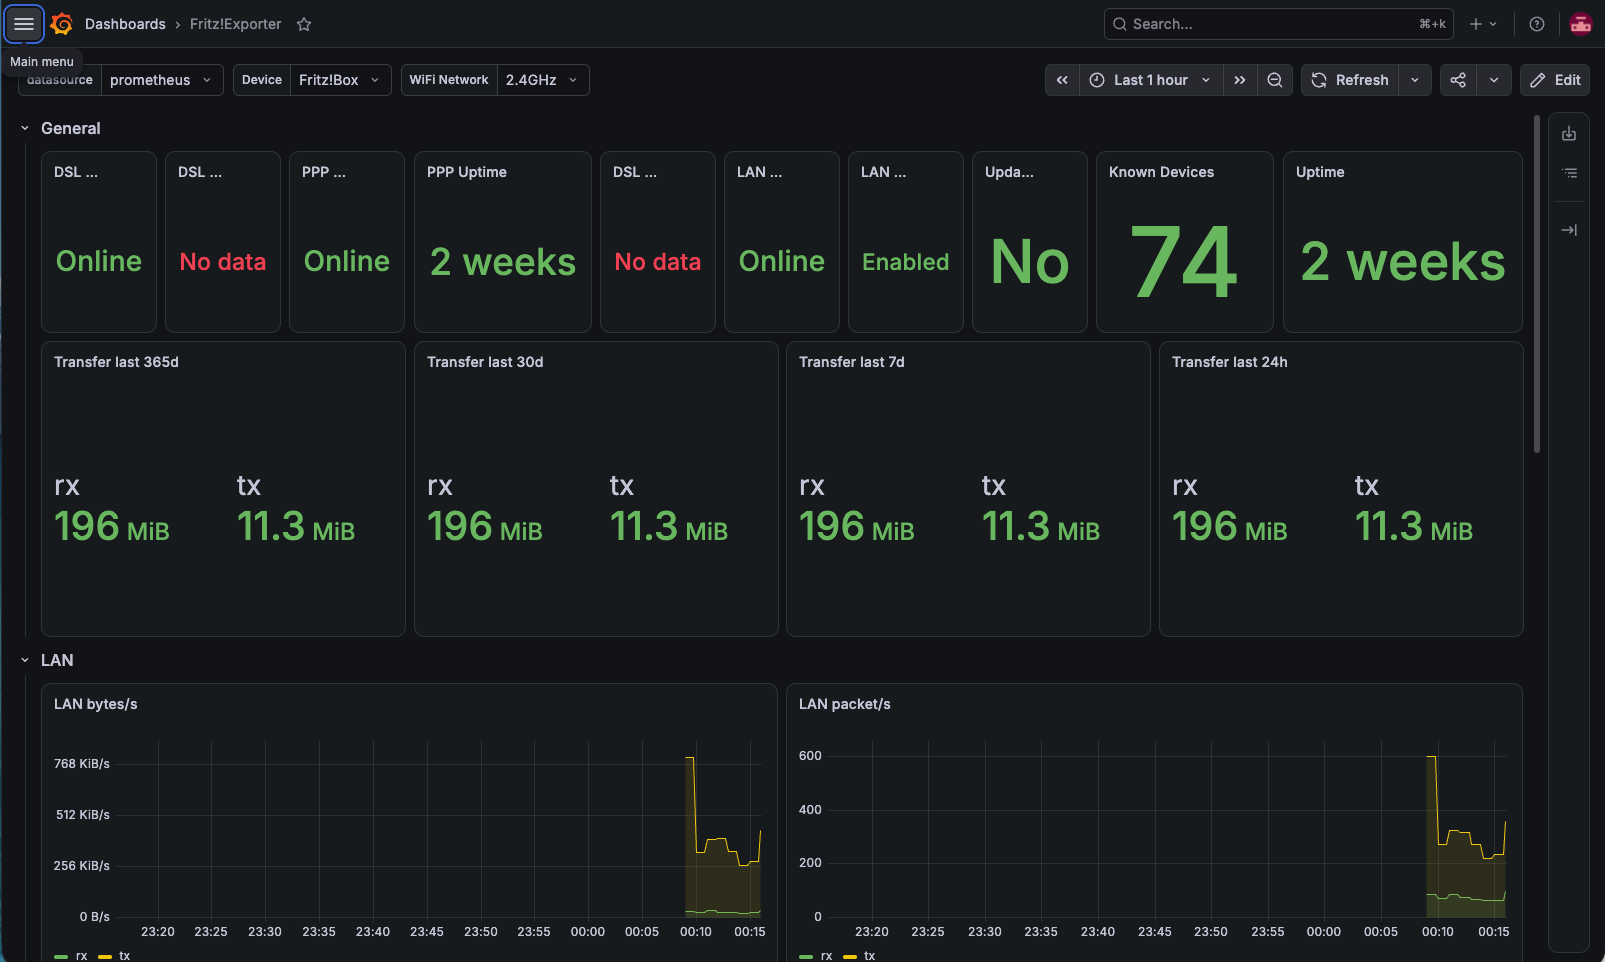
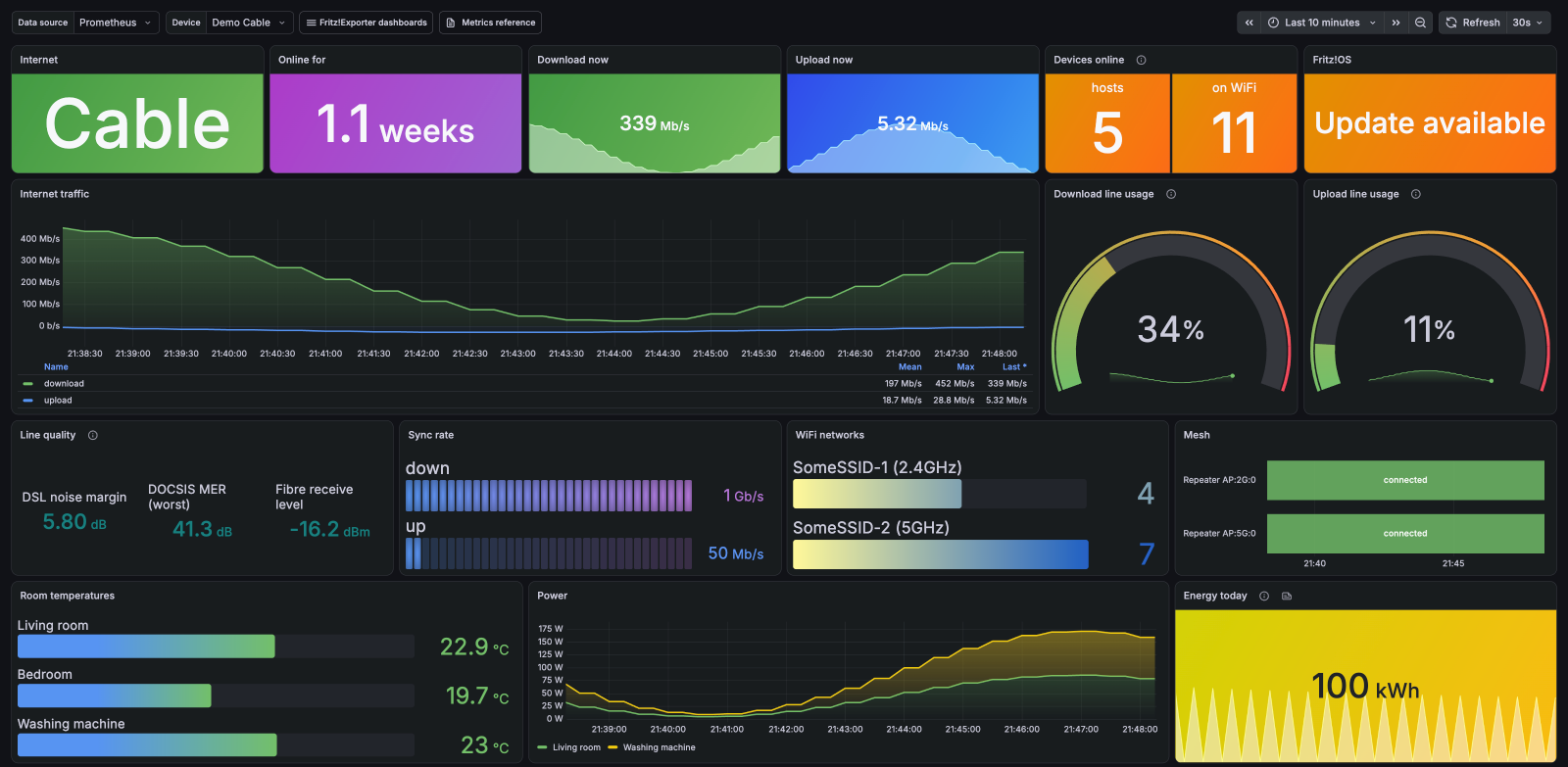
docs: quickstart shows the new Home dashboard; demo exporter fills every Home panel
The screenshot shows the demo cable box, no real data. The demo exporter
now also serves mesh links and WiFi clients, a 1000/50 Mbit/s line with
traffic to match, and keeps flags steady (a flipping "enabled" label
made new series).

diff --git a/misc/grafana/demo_exporter.py b/misc/grafana/demo_exporter.py
@@ -33,6 +33,8 @@ from tests.test_fritz_rest_api import CONNECTIONS_RAW, SEGMENT_RAW
 START = time.time()
 
 HOSTS = ["laptop", "phone", "tv", "nas", "printer", "watch"]
+# WiFi clients per WLANConfiguration (2.4 GHz, 5 GHz, guest).
+WIFI_CLIENTS = {1: 4, 2: 7, 3: 1}
 
 # Counter-like TR-064 fields grow, everything else numeric wobbles.
 GROWING = ("Total", "Bytes", "Packets", "Errors", "UpTime", "Uptime", "FEC", "CRC", "Discard")
@@ -53,13 +55,50 @@ def _move(key: str, value: object, seed: str) -> object:
     if any(word in key for word in GROWING):
         rate = max(abs(value), 1) / 600
         return type(value)(value + rate * _elapsed() * (1 + 0.5 * math.sin(_elapsed() / 90)))
-    if value == 0:
+    if value in (0, 1):
+        # Flags and states: a change would make a new series (e.g. "enabled" label).
         return value
     return type(value)(_wobble(value, seed + key))
 
 
+def _argument(kwargs: dict[str, Any], name: str) -> int:
+    """An index argument, given as keyword (reads) or in ``arguments`` (probes)."""
+    return int(kwargs.get(name, (kwargs.get("arguments") or {}).get(name, 0)))
+
+
+def _demo_reply(service: str, action: str, kwargs: dict[str, Any]) -> dict | None:
+    """Replies the test mock does not have: hosts, WiFi clients, the mesh list path."""
+    wlan = int(service.removeprefix("WLANConfiguration")) if "WLANConfiguration" in service else 0
+    if (service, action) == ("Hosts1", "X_AVM-DE_GetMeshListPath"):
+        return {"NewX_AVM-DE_MeshListPath": "/meshlist.lua"}
+    if (service, action) == ("Hosts1", "GetHostNumberOfEntries"):
+        return {"NewHostNumberOfEntries": len(HOSTS)}
+    if (service, action) == ("Hosts1", "GetGenericHostEntry"):
+        index = _argument(kwargs, "NewIndex")
+        return {
+            "NewIPAddress": f"192.168.178.{20 + index}",
+            "NewMACAddress": f"AA:BB:CC:00:00:{index:02X}",
+            "NewHostName": HOSTS[index],
+            "NewActive": int(HOSTS[index] != "printer"),
+        }
+    if action == "GetTotalAssociations":
+        return {"NewTotalAssociations": WIFI_CLIENTS.get(wlan, 0)}
+    if action == "GetGenericAssociatedDeviceInfo":
+        client = _argument(kwargs, "NewAssociatedDeviceIndex")
+        return {
+            "NewAssociatedDeviceMACAddress": f"02:00:0{wlan}:00:00:{client:02X}",
+            "NewAssociatedDeviceIPAddress": f"192.168.178.{100 + 10 * wlan + client}",
+            "NewX_AVM-DE_SignalStrength": int(_wobble(90 - 9 * client, f"{wlan}{client}", 0.1)),
+            "NewX_AVM-DE_Speed": [144, 866, 72][wlan - 1] // (client + 1),
+        }
+    return None
+
+
 def _actions(serial: str, model: str, access_type: str) -> Callable[..., object]:
-    def call_action(service: str, action: str, **kwargs: object) -> object:
+    def call_action(service: str, action: str, **kwargs: Any) -> object:  # noqa: ANN401
+        demo = _demo_reply(service, action, kwargs)
+        if demo is not None:
+            return demo
         result = copy.deepcopy(call_action_mock(service, action, **kwargs))
         if (service, action) == ("DeviceInfo1", "GetInfo"):
             result.update(
@@ -67,17 +106,16 @@ def _actions(serial: str, model: str, access_type: str) -> Callable[..., object]
             )
         if action == "GetCommonLinkProperties":
             result["NewWANAccessType"] = access_type
-        if (service, action) == ("Hosts1", "GetHostNumberOfEntries"):
-            result["NewHostNumberOfEntries"] = len(HOSTS)
-        if (service, action) == ("Hosts1", "GetGenericHostEntry"):
-            arguments: Any = kwargs.get("arguments") or {}
-            index: int = kwargs.get("NewIndex", arguments.get("NewIndex", 0))  # ty: ignore[invalid-assignment]
-            return {
-                "NewIPAddress": f"192.168.178.{20 + index}",
-                "NewMACAddress": f"AA:BB:CC:00:00:{index:02X}",
-                "NewHostName": HOSTS[index],
-                "NewActive": int(HOSTS[index] != "printer"),
-            }
+            # A 1000/50 Mbit/s line, with traffic to match below.
+            result["NewLayer1DownstreamMaxBitRate"] = 1_000_000_000
+            result["NewLayer1UpstreamMaxBitRate"] = 50_000_000
+            return result
+        if (service, action) == ("WANCommonIFC1", "GetAddonInfos"):
+            result["NewByteReceiveRate"] = int(abs(_wobble(30e6, "down", 0.9)))
+            result["NewByteSendRate"] = int(abs(_wobble(2e6, "up", 0.8)))
+            result["NewX_AVM_DE_Layer1DownstreamMaxBitRate64"] = 1_000_000_000
+            result["NewX_AVM_DE_Layer1UpstreamMaxBitRate64"] = 50_000_000
+            return result
         if isinstance(result, dict):
             return {k: _move(k, v, f"{serial}{service}{action}") for k, v in result.items()}
         return result
@@ -143,6 +181,46 @@ def _aha() -> str:
     return f'<devicelist version="1">{"".join(parts)}</devicelist>'
 
 
+def _mesh_topology() -> dict:
+    """The box and one repeater, linked on 2.4 and 5 GHz."""
+
+    def link(uid: str, rate: int, top: int) -> dict:
+        return {
+            "uid": uid,
+            "node_1_uid": "box",
+            "node_2_uid": "repeater",
+            "state": "CONNECTED",
+            "cur_data_rate_rx": int(_wobble(rate, uid + "rx", 0.2)),
+            "cur_data_rate_tx": int(_wobble(rate * 0.8, uid + "tx", 0.2)),
+            "max_data_rate_rx": top,
+            "max_data_rate_tx": top,
+        }
+
+    return {
+        "nodes": [
+            {
+                "uid": "box",
+                "device_name": "fritz.box",
+                "is_meshed": True,
+                "node_interfaces": [
+                    {"type": "WLAN", "name": "AP:2G:0", "node_links": [link("l1", 180000, 286000)]},
+                    {
+                        "type": "WLAN",
+                        "name": "AP:5G:0",
+                        "node_links": [link("l2", 1100000, 2400000)],
+                    },
+                ],
+            },
+            {
+                "uid": "repeater",
+                "device_name": "Repeater",
+                "is_meshed": True,
+                "node_interfaces": [],
+            },
+        ]
+    }
+
+
 def _webui() -> MagicMock:
     client = MagicMock()
     client.fetch_aha.side_effect = lambda *_a, **_k: _aha()
@@ -173,6 +251,9 @@ def main() -> None:
         ("demo-cable", "Demo Cable", "DEMOCABLE01", "FRITZ!Box 6690 Cable", "X_AVM-DE_Cable"),
         ("demo-fiber", "Demo Fiber", "DEMOFIBER01", "FRITZ!Box 5590 Fiber", "X_AVM-DE_Fiber"),
     ]
+    services.setdefault("Hosts1", []).append("X_AVM-DE_GetMeshListPath")
+    hosts = MagicMock()
+    hosts.return_value.get_mesh_topology.side_effect = lambda *_a, **_k: _mesh_topology()
     fcs = {}
     for host, _, serial, model, access in boxes:
         fc = MagicMock()
@@ -182,6 +263,8 @@ def main() -> None:
         fcs[host] = fc
 
     collector = FritzCollector()
+    # The mesh list is read at every scrape, so this patch stays for the whole run.
+    patch("fritzexporter.fritzcapabilities.FritzHosts", hosts).start()
     with patch.multiple(
         "fritzexporter.fritzdevice",
         create_fritz_connection=lambda **kw: fcs[kw["address"]],
